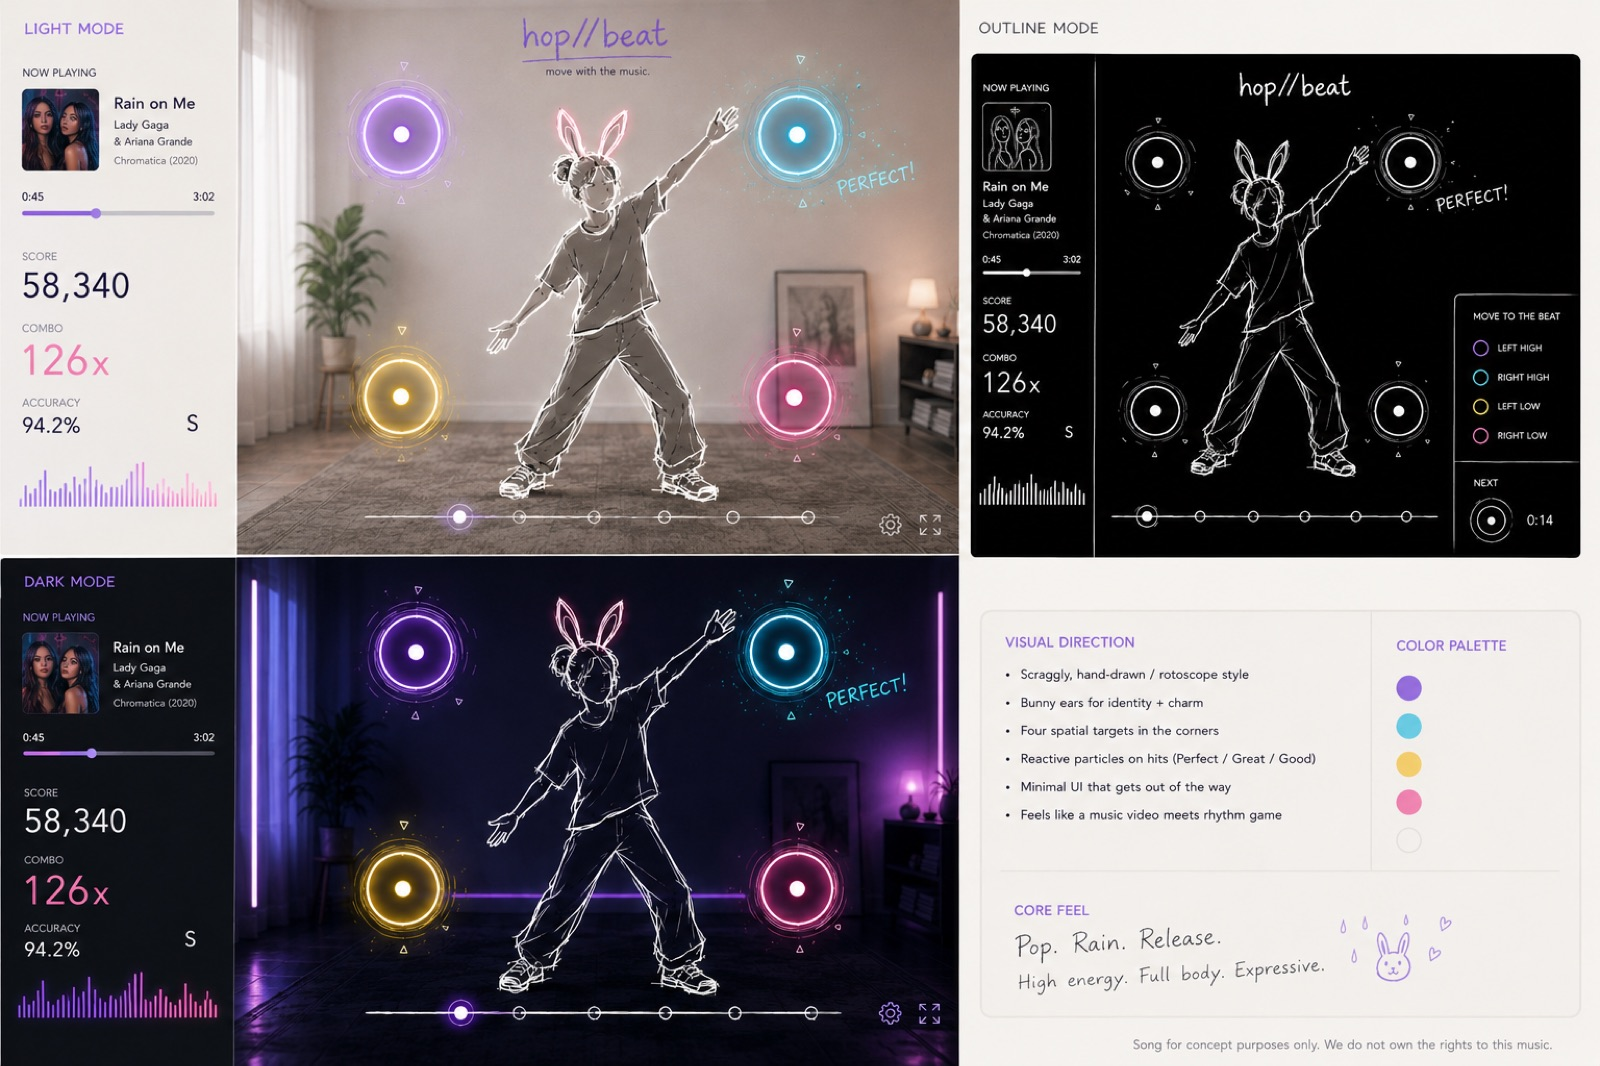
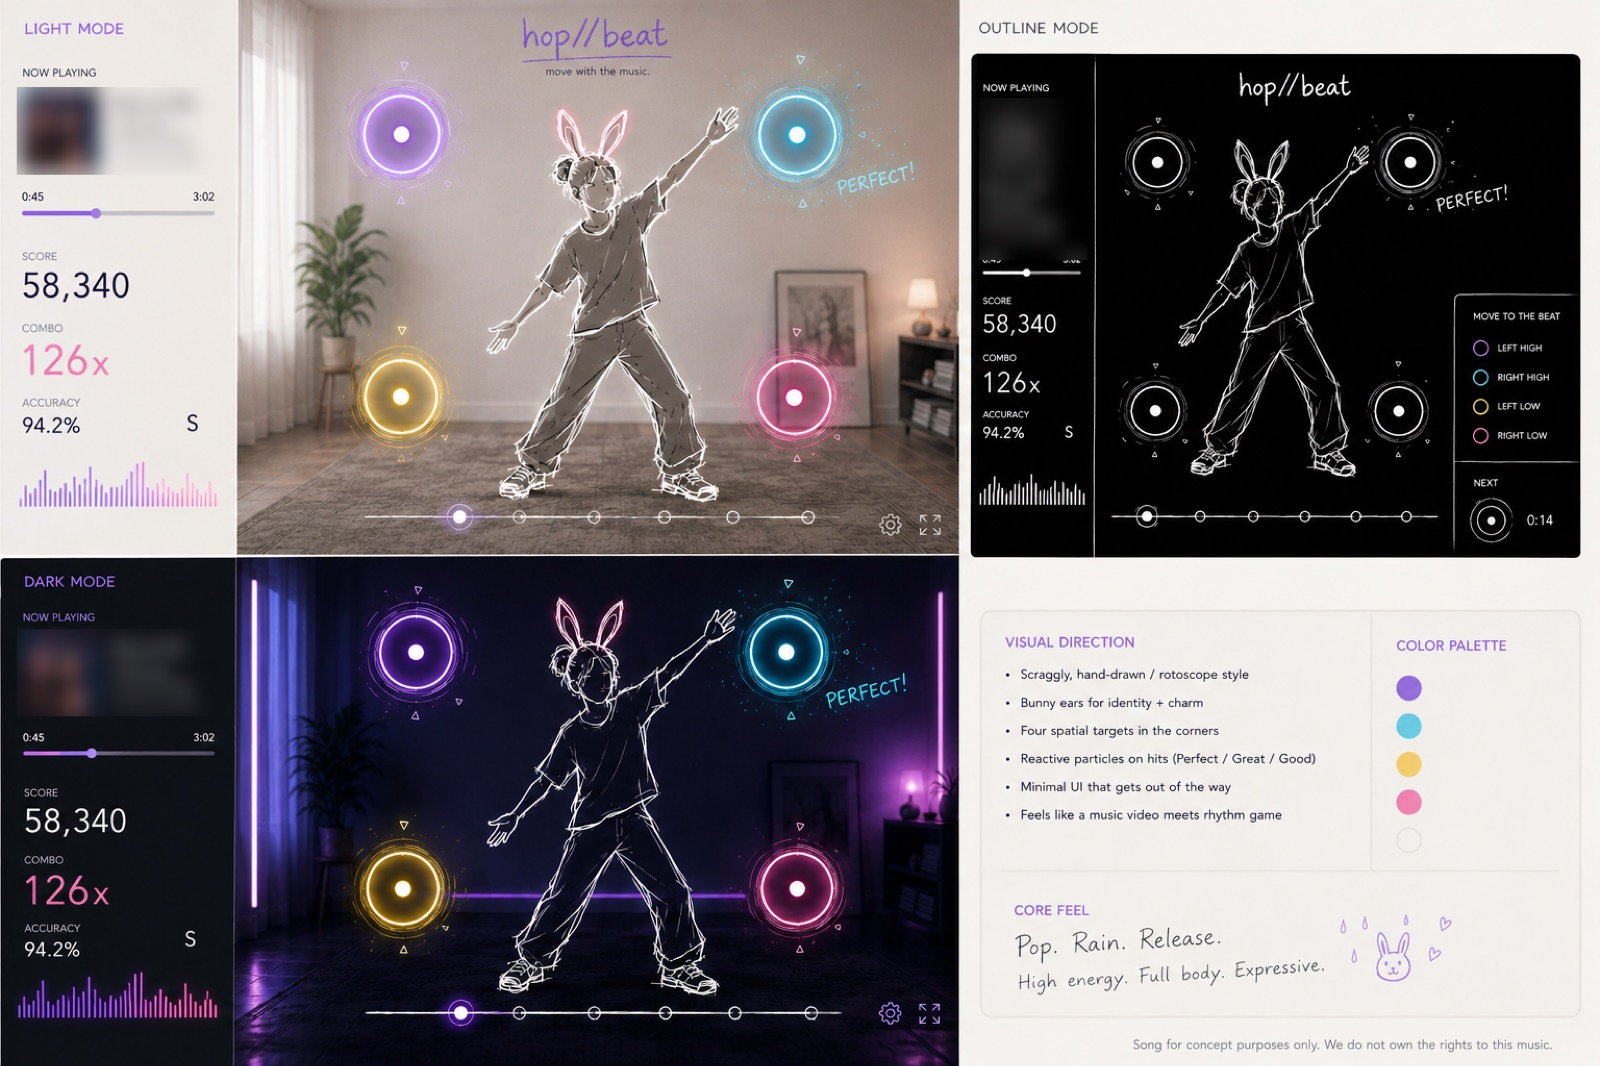
Blur the track on the concept sheet, and drop the CV framing
The sheet carried commercial album art and a named track in three
panels. All three are blurred at the source now — album thumbnail,
title, artist and album line — and re-exported. The first pass missed
one: the outline panel's text runs lower than the other two, so
"Chromatica (2020)" was still legible under a box that stopped above it.
Caught by looking at the exported file rather than trusting the
coordinates.

The caption now says the track is blurred and why, rather than
"illustrative only" — which described the intent without describing what
a reader can see.

Also removed the "restarted the habit of making things for curiosity
rather than for a CV" line. It explained a career where the page is
about a game, and it was mine rather than hers.

Changed region(s): [[0.0, 0.0619, 0.125, 0.1857], [0.0, 0.5882, 0.125, 0.6811], [0.5938, 0.0929, 0.6562, 0.2477]]

diff --git a/src/projects/HopBeat.tsx b/src/projects/HopBeat.tsx
@@ -73,7 +73,9 @@ export function HopBeat() {
             decoding="async"
           />
           <figcaption className={styles.figcaption} data-text="body">
-            Three modes of the same screen. The song shown is illustrative only.
+            Three modes of the same screen. The track is blurred — it stood in
+            for a real song while sketching, and it is not licensed for
+            anything here.
           </figcaption>
         </figure>
 
@@ -115,9 +117,8 @@ export function HopBeat() {
           else is downstream of that answer, so it gets built first and alone.
         </p>
         <p className={styles.body} data-text="body">
-          The name keeps a thread back to Bunny Hop Player — the project that
-          restarted the habit of making things for curiosity rather than for a
-          CV.
+          The name keeps a thread back to Bunny Hop Player: hop is the movement,
+          beat is the game, and the slashes are there because they looked right.
         </p>
       </section>
 
